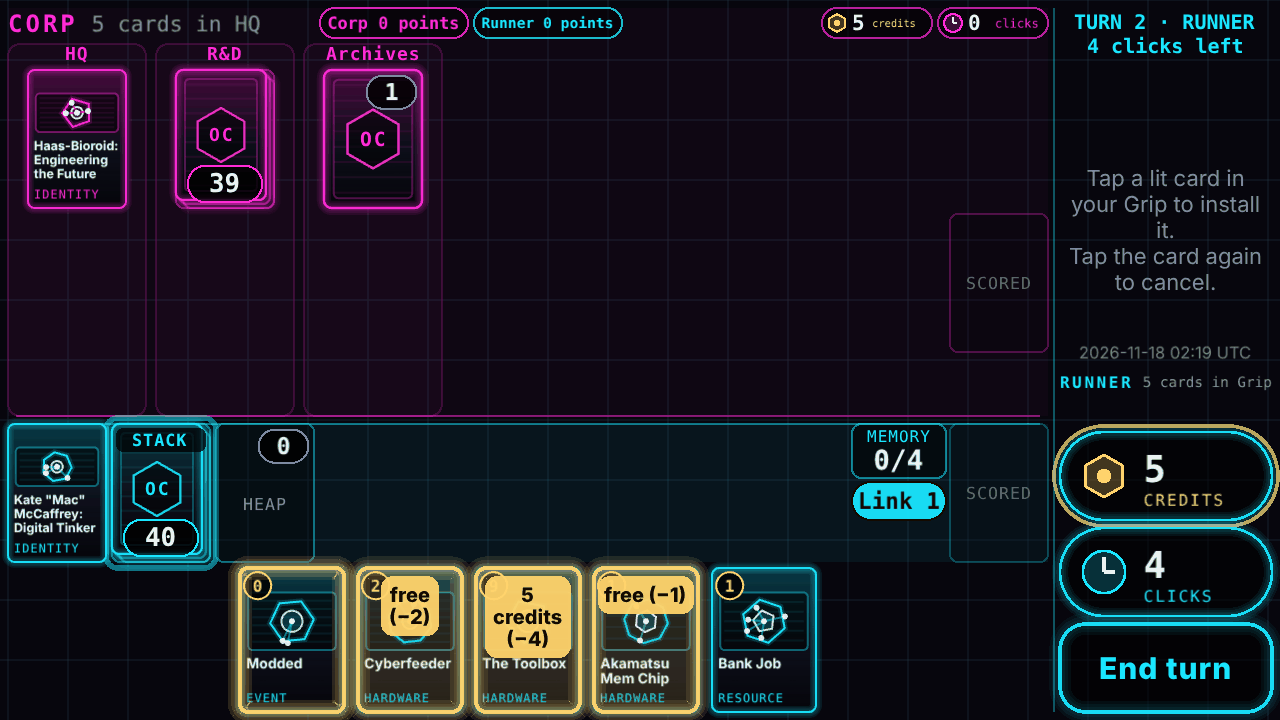
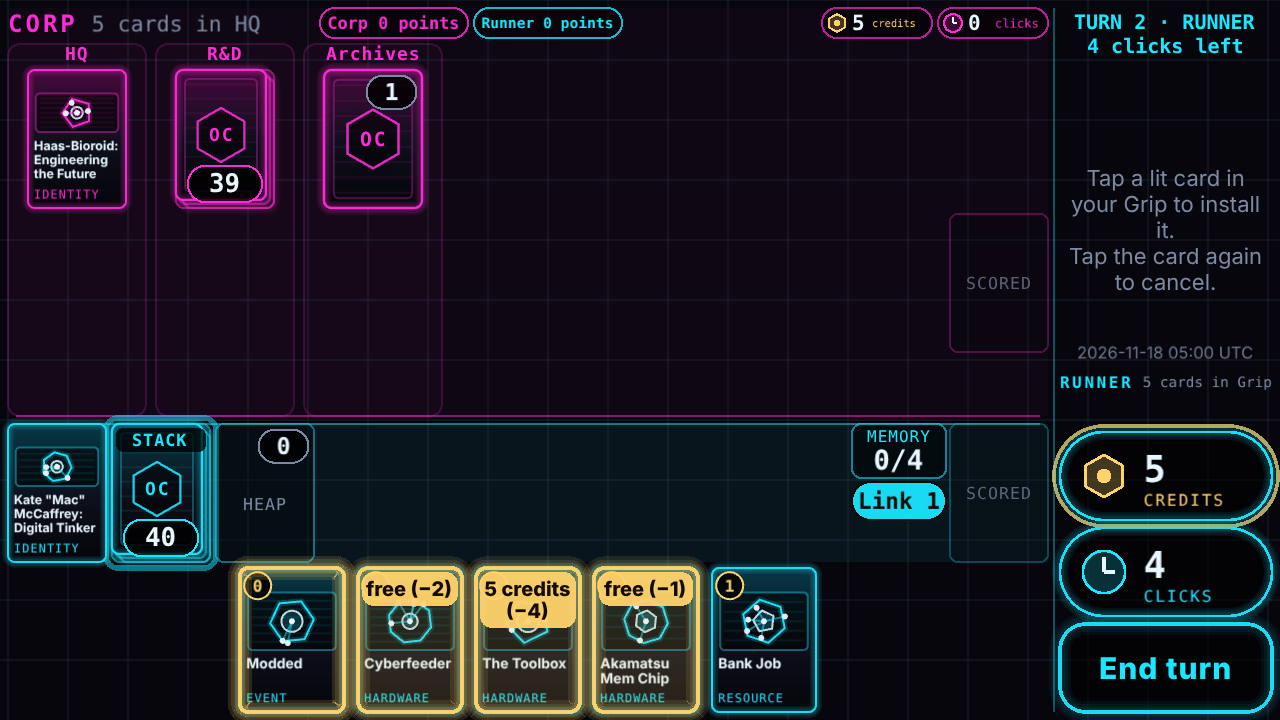
Fix QA-S12-1: Modded's Grip price labels stay above the card names at 891x296
The price pill on each lit Grip card now sits over the cost and art, ends
above the card's name, breaks as price / discount instead of word by word,
and shrinks to fit on short phones. Targets stay >= 44 px. The layout hook
reports each target's pill box and text size; s12-runner checks at every
size that no price pill overlaps any Grip card's name (new seed-203 test).

Claude-Session: https://claude.ai/code/session_01H2afASKiKacAAMKpov66kr

Changed region(s): [[0.2812, 0.7944, 0.5625, 0.9167], [0.8438, 0.4583, 0.9688, 0.5194], [0.4688, 0.9167, 0.5312, 0.9472]]

diff --git a/apps/client/src/widgets.ts b/apps/client/src/widgets.ts
@@ -532,15 +532,24 @@ export class TargetMarker {
     this.root.scale.set(on ? 1.05 : 1);
   }
 
-  /** `at` is where the price pill goes, relative to the box: 'top' | 'bottom' | 'center'. */
-  set(b: Box, text: string, lit: boolean, at: 'top' | 'bottom' | 'center', note = ''): void {
+  /** The price pill as drawn, relative to the box's center (test hook), and its text size (px). */
+  pillBox: Box = { x: 0, y: 0, width: 0, height: 0 };
+  pillFontPx = 0;
+
+  /**
+   * `at` is where the price pill goes, relative to the box: 'top' | 'bottom' | 'center'.
+   * `fit` (QA-S12-1, Modded's Grip prices): the pill must end `maxBottom` px below the box's top
+   * (above the card's name), and may break the label at `lines` (price / discount) instead of
+   * wrapping word by word; it shrinks to fit that room.
+   */
+  set(b: Box, text: string, lit: boolean, at: 'top' | 'bottom' | 'center', note = '', fit?: { maxBottom: number; lines: string[] }): void {
     this.setHover(false);
     this.box = { ...b };
     this.main = text;
     this.note = note;
     this.root.position.set(b.x + b.width / 2, b.y + b.height / 2);
     this.root.hitArea = new Rectangle(-b.width / 2, -b.height / 2, b.width, b.height);
-    const key = `${b.width}x${b.height}:${text}:${note}:${lit}:${at}`;
+    const key = `${b.width}x${b.height}:${text}:${note}:${lit}:${at}:${fit ? `${fit.maxBottom}|${fit.lines.join('|')}` : ''}`;
     if (key === this.drawn) return;
     this.drawn = key;
     const color = lit ? theme.credit : theme.textDim;
@@ -549,19 +558,39 @@ export class TargetMarker {
     this.g.clear();
     this.g.roundRect(-w / 2, -h / 2, w, h, r).fill({ color, alpha: lit ? 0.14 : 0.08 });
     glowRoundRect(this.g, -w / 2, -h / 2, w, h, r, color, 2, lit ? 1.2 : 0.5);
-    this.label.style.wordWrapWidth = Math.max(30, w - 10);
-    this.label.text = note ? `${text}\n${note}` : text;
-    this.label.scale.set(1);
-    const lw = Math.min(this.label.width, w - 6);
-    const lh = this.label.height;
-    const k = Math.min(1, (w - 8) / Math.max(1, this.label.width), (h - 6) / Math.max(1, lh + 6));
-    this.label.scale.set(k);
-    const pw = lw * (k < 1 ? 1 : 1) + 8;
-    const ph = lh * k + 6;
-    const y = at === 'top' ? -h / 2 + ph / 2 + 4 : at === 'bottom' ? h / 2 - ph / 2 - 4 : 0;
+    let y: number;
+    let pw: number;
+    let ph: number;
+    if (fit) {
+      // One line if it fits the card's width at full size; else one line per part. Never word-wrapped.
+      this.label.style.wordWrap = false;
+      this.label.scale.set(1);
+      this.label.text = note ? `${text}\n${note}` : text;
+      if (this.label.width > w - 8) this.label.text = [...fit.lines, ...(note ? [note] : [])].join('\n');
+      const room = Math.max(12, fit.maxBottom - 2);
+      const k = Math.min(1, (w - 8) / Math.max(1, this.label.width), (room - 4) / Math.max(1, this.label.height));
+      this.label.scale.set(k);
+      pw = Math.min(this.label.width + 6, w - 4);
+      ph = this.label.height + 4;
+      y = -h / 2 + 2 + ph / 2;
+    } else {
+      this.label.style.wordWrap = true;
+      this.label.style.wordWrapWidth = Math.max(30, w - 10);
+      this.label.text = note ? `${text}\n${note}` : text;
+      this.label.scale.set(1);
+      const lw = Math.min(this.label.width, w - 6);
+      const lh = this.label.height;
+      const k = Math.min(1, (w - 8) / Math.max(1, this.label.width), (h - 6) / Math.max(1, lh + 6));
+      this.label.scale.set(k);
+      pw = Math.min(lw + 8, w - 4);
+      ph = lh * k + 6;
+      y = at === 'top' ? -h / 2 + ph / 2 + 4 : at === 'bottom' ? h / 2 - ph / 2 - 4 : 0;
+    }
     this.label.position.set(0, y);
     this.pill.clear();
-    this.pill.roundRect(-Math.min(pw, w - 4) / 2, y - ph / 2, Math.min(pw, w - 4), ph, Math.min(6, ph / 2)).fill({ color, alpha: 0.95 });
+    this.pill.roundRect(-pw / 2, y - ph / 2, pw, ph, Math.min(6, ph / 2)).fill({ color, alpha: 0.95 });
+    this.pillBox = { x: -pw / 2, y: y - ph / 2, width: pw, height: ph };
+    this.pillFontPx = (this.label.style.fontSize as number) * this.label.scale.y;
   }
 }
 

diff --git a/apps/client/e2e/s12-runner.spec.ts b/apps/client/e2e/s12-runner.spec.ts
@@ -34,6 +34,30 @@ function expectThumb(l: LayoutSnapshot, b: { x: number; y: number; width: number
   expect(inside(b, safeRect(l)), `${what}: on screen`).toBe(true);
 }
 
+/**
+ * QA-S12-1: each lit Grip card's price pill sits on its own card, clear of the card's name
+ * (and of every other Grip card's name), with readable text, so you can tell which card it prices.
+ */
+async function expectPricesClearOfNames(page: Page, l: LayoutSnapshot): Promise<void> {
+  const grip = l.targets.filter((t) => t.kind === 'grip');
+  expect(grip.length).toBeGreaterThan(0);
+  const names = await Promise.all(
+    l.hand.map(async (h) => {
+      const f = await page.evaluate(([id, w, hh]) => window.__overclock!.smallFace(id, w, hh), [h.cardId, h.box.width, h.box.height] as const);
+      const cx = h.box.x + h.box.width / 2;
+      const cy = h.box.y + h.box.height / 2;
+      return { ...f!.name, x: cx + f!.name.x, y: cy + f!.name.y, text: f!.nameText };
+    }),
+  );
+  for (const t of grip) {
+    const what = `price "${t.label}" on ${names[t.index!]!.text}`;
+    expect(t.pill.width * t.pill.height, `${what}: drawn`).toBeGreaterThan(0);
+    expect(inside(t.pill, t.box), `${what}: inside its target`).toBe(true);
+    expect(t.pillFontPx, `${what}: readable`).toBeGreaterThanOrEqual(8);
+    for (const [i, n] of names.entries()) expect(overlaps(t.pill, n), `${what} clear of the name of Grip card ${i} (${n.text})`).toBe(false);
+  }
+}
+
 test.describe('S-12-3 Modded and The Toolbox', () => {
   test('Modded lights each Grip program / hardware with its price; tapping The Toolbox installs it 4 cheaper (3 + Kate 1), no extra click: memory +2, link +2, 2 credits on it', async ({ page }) => {
     const seed = 3;
@@ -60,6 +84,7 @@ test.describe('S-12-3 Modded and The Toolbox', () => {
       expect(gb.y + gb.height).toBeCloseTo(hb.y + hb.height, 0);
       if (k > 0) expect(overlaps(gb, grip[k - 1]!.box), 'Grip targets apart').toBe(false);
     }
+    await expectPricesClearOfNames(page, l);
     const toolbox = grip.find((t) => t.index === Number(plan.info['installIndex']))!;
     expect(toolbox).toMatchObject({ label: `${plan.info['cost']} credits (−${plan.info['discount']})`, lit: true });
     await page.waitForFunction(() => window.__overclock!.layout().hint === null);
@@ -86,6 +111,20 @@ test.describe('S-12-3 Modded and The Toolbox', () => {
     expect(l.runnerStatus.link!.text).toBe(`Link ${v.players.runner.link}`);
     expect(l.targets.filter((t) => t.kind === 'grip')).toEqual([]);
     await shot(page, 's12-3-toolbox-installed');
+  });
+
+  test('QA-S12-1: with two Magnum Opus and Cyberfeeder in the Grip (seed 203), every price label leaves its card name readable', async ({ page }) => {
+    const seed = 203;
+    await openBoard(page, { seed, decks: 'core45' });
+    const plan = await toStep(page, seed, 'modded_ready');
+    const l = await pickHand(page, Number(plan.info['handIndex']));
+    const grip = l.targets.filter((t) => t.kind === 'grip');
+    const named = grip.map((t) => getCard(l.hand[t.index!]!.cardId)?.name);
+    expect(named.filter((n) => n === 'Magnum Opus')).toHaveLength(2);
+    expect(named).toContain('Cyberfeeder');
+    for (const t of grip) expectThumb(l, t.box, `Grip target ${t.index}`);
+    await expectPricesClearOfNames(page, l);
+    await shot(page, 's12-3-modded-grip-prices');
   });
 
   test('no program or hardware in the Grip: Modded is dimmed and says why', async ({ page }) => {

diff --git a/apps/client/src/board.ts b/apps/client/src/board.ts
@@ -873,6 +873,8 @@ export class Board {
         ...(t.index !== undefined ? { index: t.index } : {}),
         box: { ...t.marker.box },
         label: t.marker.text,
+        pill: { ...t.marker.pillBox, x: t.marker.box.x + t.marker.box.width / 2 + t.marker.pillBox.x, y: t.marker.box.y + t.marker.box.height / 2 + t.marker.pillBox.y },
+        pillFontPx: t.marker.pillFontPx,
         ...(t.marker.note ? { note: t.marker.note } : {}),
         lit: t.option.reject === null,
         reject: t.option.reject,
@@ -2720,7 +2722,13 @@ export class Board {
         const off = option.discount ? ` (−${option.discount})` : '';
         const note = option.reject ? this.rejectHint(option) : '';
         // Just the price on the card (the help column says "install"), so the card's name stays readable.
-        this.addTarget(gen, layout, 'grip', option, box, `${priceText(option.cost)}${off}`, 'top', { index: a.installIndex }, note);
+        // QA-S12-1: the pill stays above the name (over the cost and art), shrinking to fit on short phones.
+        const gripId = view.players[view.viewer].hand?.[a.installIndex];
+        const gripDef = gripId ? getCard(gripId) : undefined;
+        const nameTop = gripDef ? card.y + card.height / 2 + smallFaceLayout(gripDef, card.width, card.height).name.y : card.y + card.height / 2;
+        const parts = option.discount ? [priceText(option.cost), `(−${option.discount})`] : [priceText(option.cost)];
+        const fit = { maxBottom: nameTop - box.y - 1, lines: parts };
+        this.addTarget(gen, layout, 'grip', option, box, `${priceText(option.cost)}${off}`, 'top', { index: a.installIndex }, note, fit);
         continue;
       }
       if (a.type === 'play' && a.mode !== undefined) {
@@ -2786,6 +2794,7 @@ export class Board {
     at: 'top' | 'bottom' | 'center',
     where: { server?: string; uid?: string; index?: number },
     note = '',
+    fit?: { maxBottom: number; lines: string[] },
   ): void {
     // Markers are kept per place: advance / score always use the same two slots.
     const key = targetKey(kind, where);
@@ -2798,7 +2807,7 @@ export class Board {
       gen.targets.set(key, m);
       marker = m;
     }
-    marker.set(b, label, option.reject === null, at, note);
+    marker.set(b, label, option.reject === null, at, note, fit);
     marker.root.visible = true;
     this.activeTargets.push({ kind, ...where, option, marker });
   }

diff --git a/apps/client/src/hook-types.ts b/apps/client/src/hook-types.ts
@@ -107,6 +107,9 @@ export interface TargetSnapshot {
   box: Box;
   /** The price label, e.g. "Install · 1 credit". */
   label: string;
+  /** QA-S12-1: the price pill as drawn (screen box) and its text size after any shrink (px). */
+  pill: Box;
+  pillFontPx: number;
   /** S-07: a dimmed installed-card button's reason, drawn under the label ("Not enough credits"). */
   note?: string;
   /** Bright (the engine would accept it) vs dim (shown with its price, refused with a hint). */
